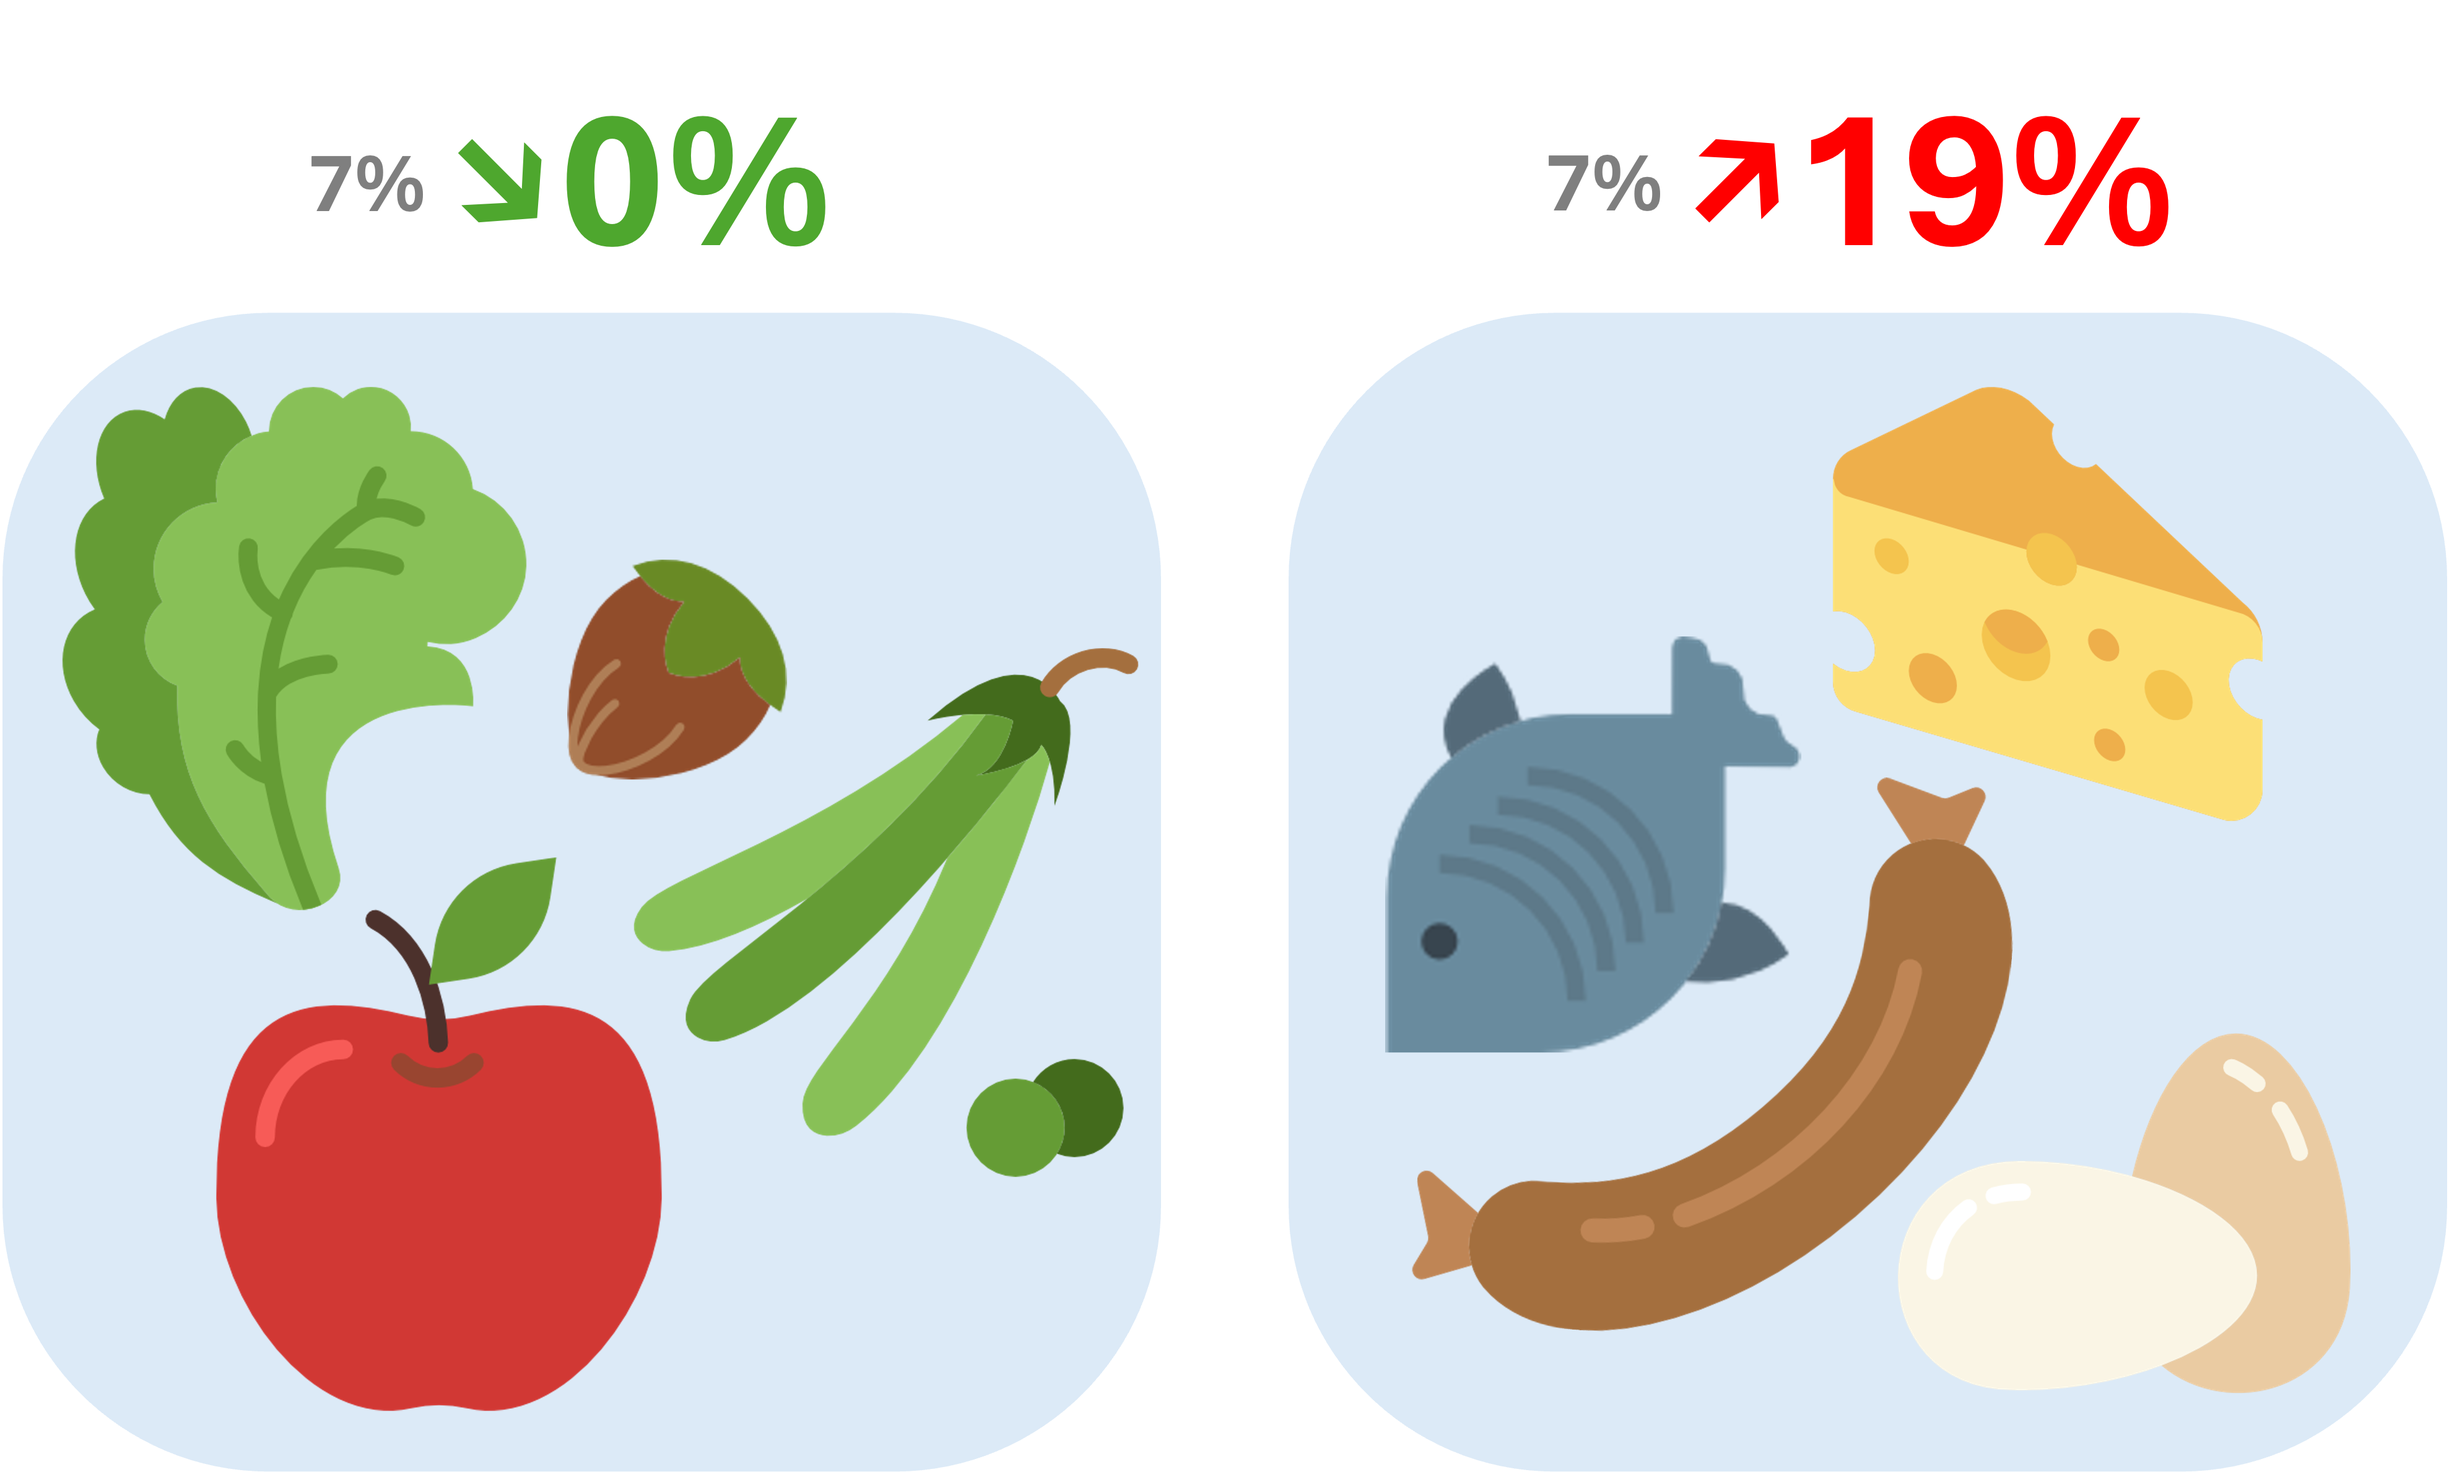
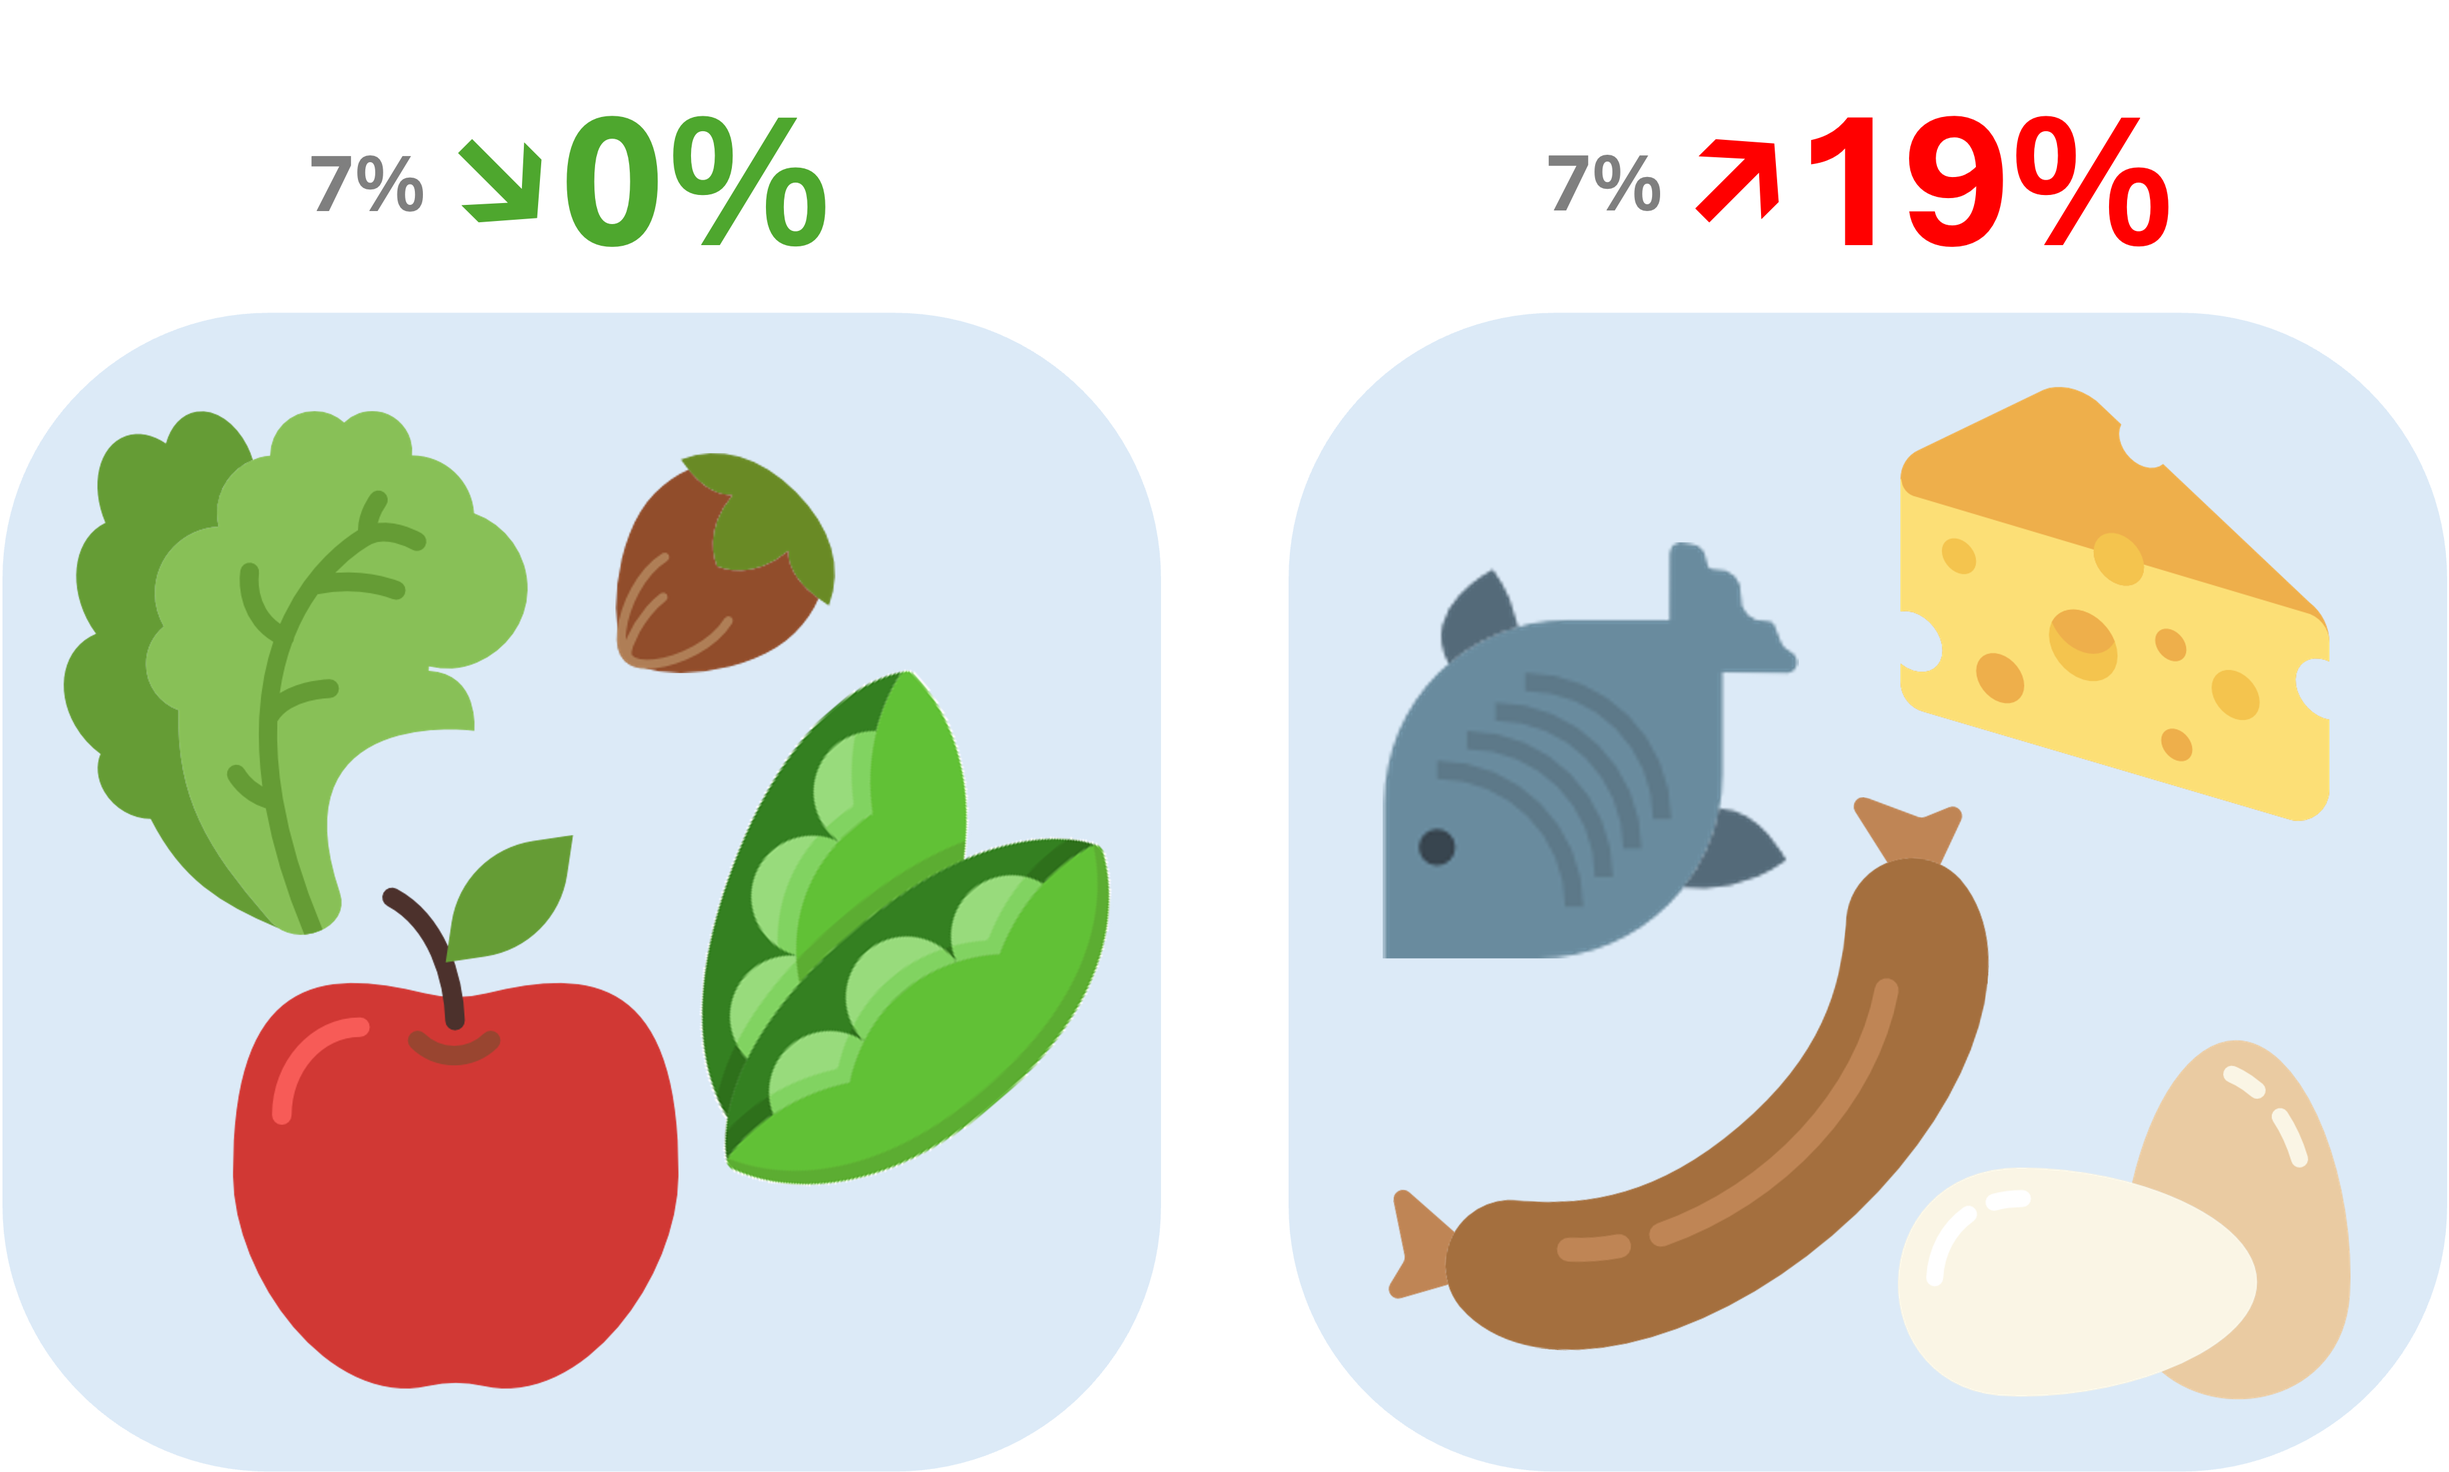
Ready for takeoff

diff --git a/index.html b/index.html
@@ -204,7 +204,7 @@
                                 {
                                     "type": "html",
                                     "name": "briefing",
-                                    "html": "<h3>Willkommen zurück!</h3><p>Schön, dass Sie wieder an einer Umfrage der Universität Bamberg teilnehmen. <b>Sie haben uns vor einigen Wochen einen Kassenzettel geschickt. In dieser Umfrage möchten wir noch einmal darauf eingehen und Ihre Meinung zu einer möglichen Veränderung der Mehrwertsteuer auf Lebensmittel erfassen.</b> Die Teilnahme wird rund 5 Minuten dauern, ist freiwillig und kann jederzeit abgebrochen werden.</p><p>Ihre Angaben werden für wissenschaftliche Zwecke erhoben und können in anonymisierter Form dauerhaft in einem öffentlichen Repositorium abgelegt werden. Ein Rückschluss auf Ihre Person ist dabei keinesfalls möglich. Weitere Informationen zur Datenverarbeitung finden Sie <a href='https://www.uni-bamberg.de/datenschutz/datenschutzinformationen/allgemeine-inhalte-datenschutzinformationen/', target='_blank'>hier</a>. Sie können Ihre Zustimmung zur Datenverarbeitung jederzeit per Email an philipp.sprengholz@uni-bamberg.de widerrufen.</p>",
+                                    "html": "<h3>Willkommen zurück!</h3><p>Schön, dass Sie wieder an einer Umfrage der Universität Bamberg teilnehmen. <b>Sie haben uns vor einigen Wochen einen Kassenzettel geschickt. In dieser Umfrage möchten wir näher darauf eingehen und Ihre Meinung zu einer möglichen Veränderung der Mehrwertsteuer auf Lebensmittel erfassen.</b> Die Teilnahme wird rund 5 Minuten dauern, ist freiwillig und kann jederzeit abgebrochen werden.</p><p>Ihre Angaben werden für wissenschaftliche Zwecke erhoben und können in anonymisierter Form dauerhaft in einem öffentlichen Repositorium abgelegt werden. Ein Rückschluss auf Ihre Person ist dabei keinesfalls möglich. Weitere Informationen zur Datenverarbeitung finden Sie <a href='https://www.uni-bamberg.de/datenschutz/datenschutzinformationen/allgemeine-inhalte-datenschutzinformationen/', target='_blank'>hier</a>. Sie können Ihre Zustimmung zur Datenverarbeitung jederzeit per Email an philipp.sprengholz@uni-bamberg.de widerrufen.</p>",
                                     "startWithNewLine": false
                                 },
                                 {
@@ -269,22 +269,6 @@
                                     elements: [
                                         {
                                             "type": "radiogroup",
-                                            "name": "mc_dairy",
-                                            "title": "**Joghurt**",
-                                            "isRequired": true,
-                                            "colCount": 0,
-                                            "choices": ["0%", "7%", "19%"]
-                                        },
-                                        {
-                                            "type": "radiogroup",
-                                            "name": "mc_meat",
-                                            "title": "**Hackfleisch**",
-                                            "isRequired": true,
-                                            "colCount": 0,
-                                            "choices": ["0%", "7%", "19%"]
-                                        },
-                                        {
-                                            "type": "radiogroup",
                                             "name": "mc_vegetable",
                                             "title": "**Paprika**",
                                             "isRequired": true,
@@ -295,6 +279,22 @@
                                             "type": "radiogroup",
                                             "name": "mc_nuts",
                                             "title": "**Walnüsse**",
+                                            "isRequired": true,
+                                            "colCount": 0,
+                                            "choices": ["0%", "7%", "19%"]
+                                        },
+                                        {
+                                            "type": "radiogroup",
+                                            "name": "mc_dairy",
+                                            "title": "**Joghurt**",
+                                            "isRequired": true,
+                                            "colCount": 0,
+                                            "choices": ["0%", "7%", "19%"]
+                                        },
+                                        {
+                                            "type": "radiogroup",
+                                            "name": "mc_meat",
+                                            "title": "**Hackfleisch**",
                                             "isRequired": true,
                                             "colCount": 0,
                                             "choices": ["0%", "7%", "19%"]
@@ -330,7 +330,7 @@
                                         {
                                             "type": "rating",
                                             "name": "pbconsumption_1",
-                                            "title": "**Wenn die Steueränderung umgesetzt würde, dann würde ich mehr Obst, Gemüse, Hülsenfrüchte und Nüsse essen.**",
+                                            "title": "**Wenn die Steueränderung umgesetzt wird, dann werde ich mehr Obst, Gemüse, Hülsenfrüchte und Nüsse essen.**",
                                             "minRateDescription": "stimme überhaupt nicht zu",
                                             "maxRateDescription": "stimme voll und ganz zu",
                                             "rateMin": 1,
@@ -340,7 +340,7 @@
                                         {
                                             "type": "rating",
                                             "name": "apconsumption_1",
-                                            "title": "**Wenn die Steueränderung umgesetzt würde, dann würde ich weniger Fleisch und Wurst, Fisch, Milchprodukte und Eier essen.**",
+                                            "title": "**Wenn die Steueränderung umgesetzt wird, dann werde ich weniger Fleisch und Wurst, Fisch, Milchprodukte und Eier essen.**",
                                             "minRateDescription": "stimme überhaupt nicht zu",
                                             "maxRateDescription": "stimme voll und ganz zu",
                                             "rateMin": 1,
@@ -714,7 +714,7 @@
                     );
                     console.log("✔ JSONBin done");
 
-                    window.location.href = "https://www.prolific.com/";
+                    window.location.href = "https://app.prolific.com/submissions/complete?cc=CBSIJK9C";
 
                 }
 
